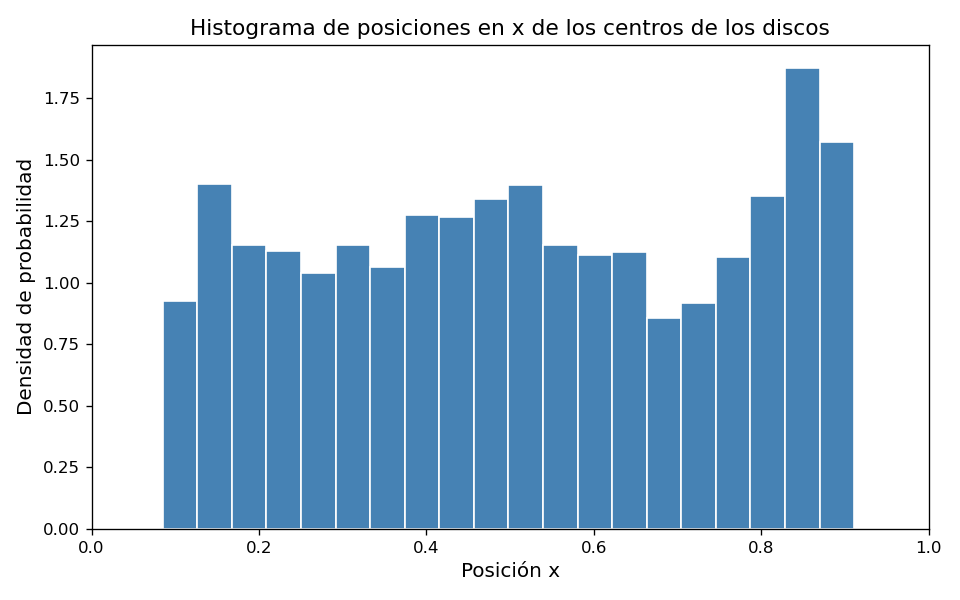
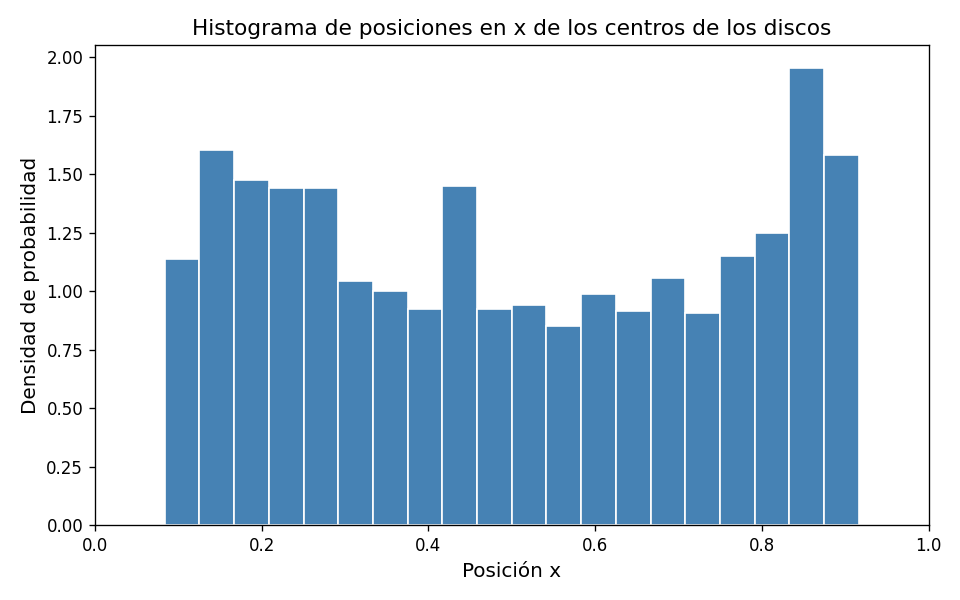
Cambios en main.py
Maxwell Boltzmann, nuevo gif

Changed region(s): [[0.0, 0.06, 1.0, 0.93], [0.1875, 0.03, 0.875, 0.06], [0.4688, 0.93, 0.5938, 0.96]]

diff --git a/python/main.py b/python/main.py
@@ -4,7 +4,9 @@ import matplotlib
 matplotlib.use('Agg')
 import matplotlib.pyplot as plt
 import os
+import csv
 import glob
+import shutil
 from PIL import Image
 code_dir = os.path.dirname(os.path.abspath(__file__))
 
@@ -18,6 +20,7 @@ def distance(particle1, particle2):
     return np.sqrt((particle1.posX-particle2.posX)**2
                   +(particle1.posY-particle2.posY)**2)
 
+
 def colision(particle1, particle2):
     '''Modifies the velocity of 2 colliding particles
 
@@ -30,18 +33,16 @@ def colision(particle1, particle2):
         particle1: First particle whose velocity to modify
         particle1: Second particle whose velocity to modify
     '''
-
-    # Constants required for calculation
     a = (particle1.velX-particle2.velX)*(particle1.posX-particle2.posX) \
         + (particle1.velY-particle2.velY)*(particle1.posY-particle2.posY)
     if a>0: return
     b = (particle1.posX-particle2.posX)**2 + (particle1.posY-particle2.posY)**2
 
-    
     particle1.velX -= (particle1.posX-particle2.posX)*a/b
     particle1.velY -= (particle1.posY-particle2.posY)*a/b
     particle2.velX -= (particle2.posX-particle1.posX)*a/b
     particle2.velY -= (particle2.posY-particle1.posY)*a/b
+
 
 def save_frame(particles, t, frame_num, output_dir=None):
     '''Saves the current system state as a PNG image.
@@ -66,12 +67,10 @@ def save_frame(particles, t, frame_num, output_dir=None):
     ax.set_facecolor('#f5f5f5')
  
     for index, p in enumerate(particles):
-        # Draw disc
         circle = plt.Circle((p.posX, p.posY), p.radius,
                              color=colors[index % len(colors)], alpha=0.85)
         ax.add_patch(circle)
  
-        # Draw velocity arrow scaled to the radius length
         vel = np.sqrt(p.velX**2 + p.velY**2)
         if vel > 1e-9:
             scale = p.radius / vel
@@ -85,14 +84,95 @@ def save_frame(particles, t, frame_num, output_dir=None):
     plt.savefig(f'{output_dir}/frame_{frame_num:05d}.png', dpi=80)
     plt.close()
 
+
+#Combined frames
+def save_combined_frame(particles, t, speed_history, frame_num, output_dir=None):
+    '''Saves a side-by-side frame: simulation panel (left) and speed histogram (right).
+
+    The histogram grows as data accumulates throughout the simulation.
+    A theoretical Maxwell-Boltzmann 2D (Rayleigh distribution) curve is
+    overlaid once enough data points are available (> 10 samples).
+
+    The 2D Maxwell-Boltzmann speed PDF is:
+        f(v) = a · v · exp(−a · v² / 2)   with  a = 2 / <v²>
+
+    Args:
+        particles:     List of Particle objects
+        t:             Current simulation time
+        speed_history: All recorded speeds accumulated so far
+        frame_num:     Frame index for filename ordering
+        output_dir:    Folder where PNG files are saved
+    '''
+    if output_dir is None:
+        output_dir = os.path.join(code_dir, 'frames')
+    colors = ['green', 'orange', 'red', 'blue', 'purple', 'cyan']
+
+    fig, (ax_sim, ax_hist) = plt.subplots(1, 2, figsize=(11, 5))
+
+    #Sim
+    ax_sim.set_xlim(0, 1)
+    ax_sim.set_ylim(0, 1)
+    ax_sim.set_aspect('equal')
+    ax_sim.set_title(f't = {t:.2f}', fontsize=13)
+    ax_sim.set_facecolor('#f5f5f5')
+    for index, p in enumerate(particles):
+        circle = plt.Circle((p.posX, p.posY), p.radius,
+                             color=colors[index % len(colors)], alpha=0.85)
+        ax_sim.add_patch(circle)
+        vel = np.sqrt(p.velX**2 + p.velY**2)
+        if vel > 1e-9:
+            scale = p.radius / vel
+            ax_sim.annotate('',
+                            xy=(p.posX + scale*p.velX, p.posY + scale*p.velY),
+                            xytext=(p.posX, p.posY),
+                            arrowprops=dict(arrowstyle='->', color='black', lw=2))
+
+    #Histo
+    speeds = np.array(speed_history)
+    ax_hist.set_xlabel('Rapidez |v|', fontsize=11)
+    ax_hist.set_ylabel('Densidad de probabilidad', fontsize=11)
+    ax_hist.set_title('Distribución de rapideces (acumulada)', fontsize=12)
+
+    if len(speeds) > 1:
+        ax_hist.hist(speeds, bins=20, color='tomato', edgecolor='white',
+                     density=True, alpha=0.80, label='Datos simulados')
+        #Maxwell-Boltzmann
+        # f(v) = a·v·exp(−a·v²/2), a = 2/<v²>
+        if len(speeds) > 10:
+            v2_mean = np.mean(speeds**2)
+            if v2_mean > 0:
+                a_param = 2.0 / v2_mean
+                v_range = np.linspace(0, speeds.max() * 1.15 + 0.01, 200)
+                rayleigh = a_param * v_range * np.exp(-a_param * v_range**2 / 2)
+                ax_hist.plot(v_range, rayleigh, 'b--', lw=2.2,
+                             label='Maxwell-Boltzmann (2D)')
+
+        ax_hist.legend(loc='upper right', fontsize=9)
+
+    os.makedirs(output_dir, exist_ok=True)
+    plt.tight_layout()
+    plt.savefig(f'{output_dir}/frame_{frame_num:05d}.png', dpi=80)
+    plt.close()
+
+#Clear frames
+frames_dir = os.path.join(code_dir, 'frames')
+if os.path.exists(frames_dir):
+    shutil.rmtree(frames_dir)
+
 t = 0
 tf = 20
 dt = 0.02
 particles = [Particle([0.25,0.25]), Particle([0.75,0.75]),
              Particle([0.25,0.75]), Particle([0.75,0.25])]
 x_register = [p.posX for p in particles]
+
+#History for CSV
+speed_history = [np.sqrt(p.velX**2 + p.velY**2) for p in particles]
+records = [(0.0, idx+1, p.posX, p.posY, p.velX, p.velY, spd)
+           for idx, (p, spd) in enumerate(zip(particles, speed_history))]
+
 frame_num = 0
-save_frame(particles, t, frame_num)
+save_combined_frame(particles, t, speed_history, frame_num)
  
 print(f"{t:.2f}:")
 print(f"p1 = {particles[0].posX},{particles[0].posY}")
@@ -112,17 +192,23 @@ while (t <= tf):
     for p in particles:
         p.edgeColision()
  
-    # Positions and save frames
     for p in particles:
         x_register.append(p.posX)
+
+    #Register
+    for idx, p in enumerate(particles):
+        spd = np.sqrt(p.velX**2 + p.velY**2)
+        speed_history.append(spd)
+        records.append((t, idx+1, p.posX, p.posY, p.velX, p.velY, spd))
+
     frame_num += 1
-    save_frame(particles, t, frame_num)
+    save_combined_frame(particles, t, speed_history, frame_num)
  
     print(f"{t:.2f}:")
     print(f"p1 = {particles[0].posX},{particles[0].posY}")
     print(f"p2 = {particles[1].posX},{particles[1].posY}")
  
-# Histogram
+#Histogram
 fig, ax = plt.subplots(figsize=(8, 5))
 ax.hist(x_register, bins=20, color='steelblue', edgecolor='white', density=True)
 ax.set_xlabel('Posición x', fontsize=12)
@@ -133,9 +219,18 @@ plt.tight_layout()
 plt.savefig(os.path.join(code_dir, 'histogram_pos_x.png'), dpi=120)
 plt.close()
 print("Histograma guardado: histogram_pos_x.png")
+
+#Create CSV
+csv_path = os.path.join(code_dir, 'results_python.csv')
+with open(csv_path, 'w', newline='') as f:
+    writer = csv.writer(f)
+    writer.writerow(['t', 'particle', 'x', 'y', 'vx', 'vy', 'speed'])
+    writer.writerows(records)
+print(f"CSV guardado: results_python.csv  ({len(records)} filas)")
  
-# Gif
+#GIF
 paths = sorted(glob.glob(os.path.join(code_dir, 'frames', 'frame_*.png')))
 frames_gif = [Image.open(p).convert('RGB') for p in paths]
-frames_gif[0].save(os.path.join(code_dir, 'simulation.gif'), save_all=True, append_images=frames_gif[1:], duration=dt*1000, loop=0)
+frames_gif[0].save(os.path.join(code_dir, 'simulation.gif'), save_all=True,
+                   append_images=frames_gif[1:], duration=dt*1000, loop=0)
 print(f"Gif guardado: simulation.gif")